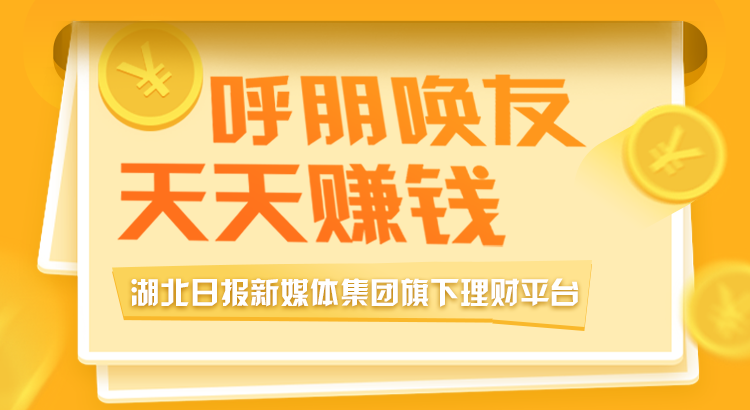
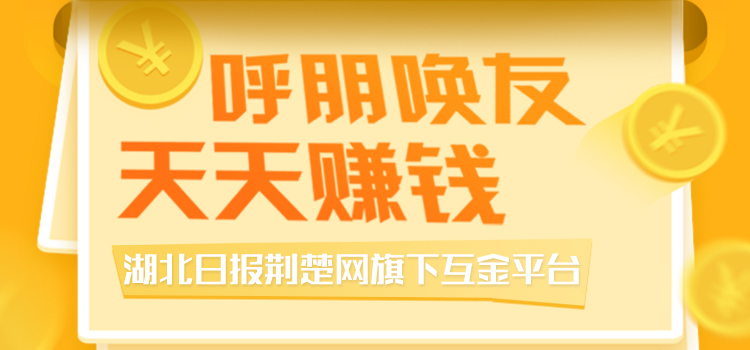
change

diff --git a/view/themes/ctcf_new/pc/views/helpcenter/about.php b/view/themes/ctcf_new/pc/views/helpcenter/about.php
@@ -17,11 +17,11 @@ $this->registerCssFile(ASSETS_BASE_URI.'ctcf/css/help/about.css?v=1.0', ['depend
                 <div class="about-content">
                     <p align="center">楚天财富（武汉）金融服务有限公司简介</p>
                     <p>
-                        楚天财富（武汉）金融服务有限公司（以下简称“楚天财富”）系湖北日报新媒体集团旗下控股公司，是湖北省首家具有国资背景的从事互联网金融综合信息服务的企业，是国内传统“纸媒”行业响应国家“十二五”规划和新时代发展战略的创新举措。作为金融信息服务平台，楚天财富在武汉的“产业与资本，金融与民生”战略规划中深耕细作，深度挖掘战略发展契合点并抓住联动机遇，一方面服务于符合国家未来发展规划的产业和企业，另一方面为出借者提供更丰富的资产配置策略与出借渠道。未来，楚天财富将由湖北武汉逐步辐射至全国，实现其作为传媒集团旗下互联网金融服务平台的多元化和规模化发展。</p>
+                        楚天财富（武汉）金融服务有限公司（以下简称“楚天财富”）系湖北日报荆楚网旗下控股公司，是湖北省首家具有国资背景的从事互联网金融综合信息服务的企业，是国内传统“纸媒”行业响应国家“十二五”规划和新时代发展战略的创新举措。作为金融信息服务平台，楚天财富在武汉的“产业与资本，金融与民生”战略规划中深耕细作，深度挖掘战略发展契合点并抓住联动机遇，一方面服务于符合国家未来发展规划的产业和企业，另一方面为出借者提供更丰富的资产配置策略与出借渠道。未来，楚天财富将由湖北武汉逐步辐射至全国，实现其作为荆楚网旗下互联网金融服务平台的多元化和规模化发展。</p>
                     <p>
-                        湖北荆楚网络科技股份有限公司（内部简称“湖北日报新媒体集团”），是全国首家挂牌新三板市场的省级全国重点新闻网站（830836），由湖北日报传媒集团（以下简称“传媒集团”）的全资子公司。传媒集团系由1949年创刊的中共湖北省委机关报——湖北日报于2007年4月组建。传媒集团在深厚的历史积淀基础之上，经过十余年开拓创新，已发展成为一家以湖北日报为核心，拥有11报12刊5网站和1家出版机构、21个全资公司的综合性传媒集团，在湖北省内拥有巨大影响力。</p>
+                        湖北荆楚网络科技股份有限公司（简称“荆楚网”），是全国首家挂牌新三板市场的省级全国重点新闻网站（830836），是湖北日报的全资子公司。荆楚网系由1949年创刊的中共湖北省委机关报——湖北日报于2007年4月组建。荆楚网在深厚的历史积淀基础之上，经过十余年开拓创新，已发展成为一家以湖北日报为核心，拥有11报12刊5网站和1家出版机构、21个全资公司的综合性传媒集团，在湖北省内拥有巨大影响力。</p>
                     <p>
-                        湖北新海天投资有限公司于 2001年6月创立，是一家以自主深度研究为基础、专业从事中国境内投资的投资管理公司。新海天投资历经十七年成长，已经成为一家以金融业务为核心的资本经营管理集团（简称“新海天资本”），主营业务债权投资、股权投资、证券投资、金融资本顾问等，聚焦资本领域，打造核心竞争力。新海天资本拥有一批专业背景深厚，从业经验丰富的经营管理人才，拥有良好的政府关系和广泛的人脉资源，专注资本领域，植根中国市场，深入精耕，致力于为中国高净值投资者、企业和国际投资机构提供专业的投资管理服务。</p>
+                        湖北新海天投资有限公司于 2001年6月创立，是一家以自主深度研究为基础、专业从事中国境内投资的投资管理公司。新海天投资历经十七年成长，已经成为一家以金融业务为核心的资本经营管理集团（简称“新海天资本”），主营业务债权投资、股权投资、证券投资、金融资本顾问等，聚焦资本领域，打造核心竞争力。新海天资本拥有一批专业背景深厚，从业经验丰富的经营管理人才，拥有良好的政府关系和广泛的人脉资源，专注资本领域，植根中国市场，深入精耕，致力于为中国高净值投资者、企业和国际投资机构提供专业的投资管理服务。
 
                     <p class="zizhi">
                         <span>——————</span>

diff --git a/view/themes/ctcf_new/pc/views/helpcenter/background.php b/view/themes/ctcf_new/pc/views/helpcenter/background.php
@@ -19,7 +19,7 @@ $this->title = "帮助中心";
                     <div class="row single">
                         <p class="single-tuchu">公司概括</p>
                         <p>
-                            楚天财富（武汉）金融服务有限公司（以下简称“楚天财富”）系湖北日报新媒体集团旗下控股公司，是湖北省首家具有国资背景的从事互联网金融综合信息服务的企业，是国内传统“纸媒”行业响应国家“十二五”规划和新时代发展战略的创新举措。作为金融信息服务平台，楚天财富在武汉的“产业与资本，金融与民生”战略规划中深耕细作，深度挖掘战略发展契合点并抓住联动机遇，一方面服务于符合国家未来发展规划的产业和企业，另一方面为出借者提供更丰富的资产配置策略与出借渠道。未来，楚天财富将由湖北武汉逐步辐射至全国，实现其作为传媒集团旗下互联网金融服务平台的多元化和规模化发展。
+                            楚天财富（武汉）金融服务有限公司（以下简称“楚天财富”）系湖北日报荆楚网旗下参股公司，是湖北省首家具有国资背景的从事互联网金融综合信息服务的企业，是国内传统“纸媒”行业响应国家“十二五”规划和新时代发展战略的创新举措。作为金融信息服务平台，楚天财富在武汉的“产业与资本，金融与民生”战略规划中深耕细作，深度挖掘战略发展契合点并抓住联动机遇，一方面服务于符合国家未来发展规划的产业和企业，另一方面为出借者提供更丰富的资产配置策略与出借渠道。未来，楚天财富将由湖北武汉逐步辐射至全国，实现其作为综合性互联网金融服务平台的多元化和规模化发展。
                         </p>
                     </div>
 <!--                    <div class="row single">-->
@@ -30,7 +30,7 @@ $this->title = "帮助中心";
                     <div class="row single">
                         <p class="single-tuchu">股东背景</p>
                         <p class="single-tuchu">湖北荆楚网络科技股份有限公司</p>
-                        <p>湖北荆楚网络科技股份有限公司（内部简称“湖北日报新媒体集团”），是全国首家挂牌新三板市场的省级全国重点新闻网站（830836），由湖北日报传媒集团（以下简称“传媒集团”）的全资子公司。传媒集团系由1949年创刊的中共湖北省委机关报——湖北日报于2007年4月组建。传媒集团在深厚的历史积淀基础之上，经过十余年开拓创新，已发展成为一家以湖北日报为核心，拥有11报12刊5网站和1家出版机构、21个全资公司的综合性传媒集团，在湖北省内拥有巨大影响力。</p>
+                        <p>湖北荆楚网络科技股份有限公司（简称“荆楚网”），是全国首家挂牌新三板市场的省级全国重点新闻网站（830836），由湖北日报传媒集团（以下简称“传媒集团”）的全资子公司。传媒集团系由1949年创刊的中共湖北省委机关报——湖北日报于2007年4月组建。传媒集团在深厚的历史积淀基础之上，经过十余年开拓创新，已发展成为一家以湖北日报为核心，拥有11报12刊5网站和1家出版机构、21个全资公司的综合性传媒集团，在湖北省内拥有巨大影响力。</p>
                         <p class="single-tuchu">湖北新海天投资有限公司</p>
                         <p>湖北新海天投资有限公司于 2001年6月创立，是一家以自主深度研究为基础、专业从事中国境内投资的投资管理公司。新海天投资历经十七年成长，已经成为一家以金融业务为核心的资本经营管理集团（简称“新海天资本”），主营业务债权投资、股权投资、证券投资、金融资本顾问等，聚焦资本领域，打造核心竞争力。新海天资本拥有一批专业背景深厚，从业经验丰富的经营管理人才，拥有良好的政府关系和广泛的人脉资源，专注资本领域，植根中国市场，深入精耕，致力于为中国高净值投资者、企业和国际投资机构提供专业的投资管理服务。</p>
 

diff --git a/view/themes/ctcf_new/m/views/site/help_company.php b/view/themes/ctcf_new/m/views/site/help_company.php
@@ -11,12 +11,12 @@ $this->title="帮助中心";
     <div class="kong-width">
         <div class="row single">
             <p class="single-tuchu">公司概括</p>
-            <p>楚天财富（武汉）金融服务有限公司（以下简称“楚天财富”）系湖北日报新媒体集团旗下控股公司，是湖北省首家具有国资背景的从事互联网金融综合信息服务的企业，是国内传统“纸媒”行业响应国家“十二五”规划和新时代发展战略的创新举措。作为金融信息服务平台，楚天财富在武汉的“产业与资本，金融与民生”战略规划中深耕细作，深度挖掘战略发展契合点并抓住联动机遇，一方面服务于符合国家未来发展规划的产业和企业，另一方面为出借者提供更丰富的资产配置策略与出借渠道。未来，楚天财富将由湖北武汉逐步辐射至全国，实现其作为传媒集团旗下互联网金融服务平台的多元化和规模化发展。</p>
+            <p>楚天财富（武汉）金融服务有限公司（以下简称“楚天财富”）系湖北日报荆楚网旗下控股公司，是湖北省首家具有国资背景的从事互联网金融综合信息服务的企业，是国内传统“纸媒”行业响应国家“十二五”规划和新时代发展战略的创新举措。作为金融信息服务平台，楚天财富在武汉的“产业与资本，金融与民生”战略规划中深耕细作，深度挖掘战略发展契合点并抓住联动机遇，一方面服务于符合国家未来发展规划的产业和企业，另一方面为出借者提供更丰富的资产配置策略与出借渠道。未来，楚天财富将由湖北武汉逐步辐射至全国，实现其作为荆楚网旗下互联网金融服务平台的多元化和规模化发展。</p>
         </div>
         <div class="row single">
             <p class="single-tuchu">股东背景</p>
             <p class="single-tuchu">湖北荆楚网络科技股份有限公司</p>
-            <p>湖北荆楚网络科技股份有限公司（内部简称“湖北日报新媒体集团”），是全国首家挂牌新三板市场的省级全国重点新闻网站（830836），由湖北日报传媒集团（以下简称“传媒集团”）的全资子公司。传媒集团系由1949年创刊的中共湖北省委机关报——湖北日报于2007年4月组建。传媒集团在深厚的历史积淀基础之上，经过十余年开拓创新，已发展成为一家以湖北日报为核心，拥有11报12刊5网站和1家出版机构、21个全资公司的综合性传媒集团，在湖北省内拥有巨大影响力。</p>
+            <p>湖北荆楚网络科技股份有限公司（简称“荆楚网”），是全国首家挂牌新三板市场的省级全国重点新闻网站（830836），是湖北日报的全资子公司。荆楚网系由1949年创刊的中共湖北省委机关报——湖北日报于2007年4月组建。荆楚网在深厚的历史积淀基础之上，经过十余年开拓创新，已发展成为一家以湖北日报为核心，拥有11报12刊5网站和1家出版机构、21个全资公司的综合性传媒集团，在湖北省内拥有巨大影响力。</p>
         </div>
         <div class="row single">
             <p class="single-tuchu">湖北新海天投资有限公司</p>

diff --git a/view/themes/ctcf_new/pc/views/safeguard.php b/view/themes/ctcf_new/pc/views/safeguard.php
@@ -33,7 +33,7 @@ $this->extraKeywords = '平台安全';
                         <p class="p-padding-lf">楚天财富严守平台规范。用户出借的每一笔资金都经过第三方支付平台联动优势，一一匹配真实债权，对应每个资产项目；联动优势提供的专业综合支付系统与资金结算服务，实现交易资金与平台自有资金的隔离管理，有效防范平台自建资金池以及随意挪用资金的风险。</p>
                         <p class="p-padding-lf" style="margin-top: 1em;"><span style="font-weight: bold;">联动优势</span>：联动优势科技有限公司由中国移动、中国银联于2003年8月联合发起成立。是中国互联网金融协会理事单位、中国支付清算协会常务理事单位；联动优势已获得中国人民银行《支付业务许可证》（全国范围的互联网支付、移动电话支付、银行卡收单），中国证监会基金销售支付结算业务资格，以及国家外汇管理局北京外汇管理部跨境外汇支付试点和中国人民银行跨境人民币支付试点资质。</p>
                         <h4>（4）股东背景强势</h4>
-                        <p class="p-padding-lf">楚天财富（武汉）金融服务有限公司（简称楚天财富）隶属湖北日报新传媒集团，其强大的媒体公信力、专业的金融机构背景，助力楚天财富全力发展互联网金融业务，给予楚天财富更长足的发展动力。</p>
+                        <p class="p-padding-lf">楚天财富（武汉）金融服务有限公司（简称楚天财富）系湖北日报荆楚网旗下子公司，其强大的媒体公信力、专业的金融机构背景，助力楚天财富全力发展互联网金融业务，给予楚天财富更长足的发展动力。</p>
                     </div>
 
                     <div class="safetxt-icon hide">

diff --git a/view/themes/ctcf_new/m/views/site/company_desc.php b/view/themes/ctcf_new/m/views/site/company_desc.php
@@ -111,7 +111,7 @@ $this->title = '关于我们';
         <div class="page page-loading" data-lock-next="true" data-lock-prev="true">
                 <div class="top-empt-loading"></div>
                 <div class="page-loading-title1"></div>
-                <div class="page-loading-wendu">系湖北日报新媒体集团旗下公司</div>
+                <div class="page-loading-wendu">系湖北日报荆楚网旗下公司</div>
                 <div class="page-loading-jindubg">
                         <div class="page-redloading-wrap">
                                 <div class="page-redloading"></div>
@@ -127,7 +127,7 @@ $this->title = '关于我们';
                                     <img class="star-dot" src="<?= FE_BASE_URI ?>wap/campaigns/h5-161114/img/star-2.png">
                                 </div>
                                 <div class="title page1-title"><img src="<?= ASSETS_BASE_URI ?>ctcf/images/h5-180211/first-title.png" alt=""></div>
-                                <p class="title-h2"><span >系湖北日报新媒体集团旗下公司</span></p>
+                                <p class="title-h2"><span >系湖北日报荆楚网旗下公司</span></p>
                                 <div class="hexagon">
                                         <img src="<?= ASSETS_BASE_URI ?>ctcf/images/h5-180211/six-fg-new.png" alt="六边形">
                                         <span class="hexagon-txt" style="top: -23px;left: 26.6%;width: 51%;">平台以专业的风控能力、高效的技术保障为用户提供便捷的互联网金融综合信息服务。</span>

diff --git a/view/themes/ctcf_new/pc/views/helpcenter/advantage.php b/view/themes/ctcf_new/pc/views/helpcenter/advantage.php
@@ -20,7 +20,7 @@ $this->registerCssFile(ASSETS_BASE_URI.'css/help/advantage.css', ['depends' => '
                     <div class="section">
                         <div class="number">1</div>
                         <span>国资</span><span>背景</span>
-                        <p>隶属湖北日报新媒体集团旗下出借平台。</p>
+                        <p>隶属湖北日报荆楚网旗下互金平台。</p>
                     </div>
 
                     <div class="section">
@@ -32,7 +32,7 @@ $this->registerCssFile(ASSETS_BASE_URI.'css/help/advantage.css', ['depends' => '
                     <div class="section">
                         <div class="number">3</div>
                         <span>稳健</span><span>合规</span>
-                        <p>资金全程托管，与平台隔离不被挪用；</p>
+                        <p>资金全程分离，与平台隔离不被挪用；</p>
                         <p>绑定本人银行卡，提现只进本人账户很安全；</p>
                         <p>层层风控，专业稳健，合法合规。</p>
                     </div>

diff --git a/view/themes/ctcf_new/m/views/luodiye/luodiye.php b/view/themes/ctcf_new/m/views/luodiye/luodiye.php
@@ -86,7 +86,7 @@ $this->registerJsFile(FE_BASE_URI.'wap/luodiye/js/luodiye.js?v=20180118', ['depe
 
             <div class="row description-box">
                 <p class="description-header"><span>什么是楚天财富？</span></p>
-                <p class="description-content">楚天财富（武汉）金融服务有限公司简称“楚天财富”，隶属湖北日报新媒体集团下平台，是湖北省首家具有国资背景的从事互联网金融综合信息服务的企业，是国内传统“纸媒”行业响应国家“十二五”规划和新时代发展战略的创新举措。</p>
+                <p class="description-content">楚天财富（武汉）金融服务有限公司简称“楚天财富”，隶属湖北日报荆楚网下平台，是湖北省首家具有国资背景的从事互联网金融综合信息服务的企业，是国内传统“纸媒”行业响应国家“十二五”规划和新时代发展战略的创新举措。</p>
             </div>
 <!--            <div class="row production-box">-->
 <!--                <p class="production-header">精品理财</p>-->

diff --git a/view/themes/ctcf_new/pc/views/helpcenter/product.php b/view/themes/ctcf_new/pc/views/helpcenter/product.php
@@ -26,7 +26,7 @@ $this->title = "帮助中心";
                         <p>1、期限灵活：长中短期项目丰富，适合不同客户需求；</p>
                         <p>2、风险可控：借款项目为专业商业保理公司推荐的优质客户，保理公司全流程全环节监控借款企业资金用途，把握借款企业回款资金的安全性；</p>
                         <p>3、信息安全：专业第三方资金托管平台对资金全程监控保护，平台自身资深技术团队保证用户个人信息安全；</p>
-                        <p>4、背景强劲：省委机关报业集团旗下子公司，全国首家挂牌新三板省级重点新闻网站媒体支持，信誉保证。</p>
+                        <p>4、背景强劲：全国首家挂牌新三板省级重点新闻网站旗下子公司，信誉保证。</p>
                     </div>
                     <div class="row single">
                         <h1>收益计算：</h1>

diff --git a/view/themes/ctcf_new/m/views/luodiye/invite.php b/view/themes/ctcf_new/m/views/luodiye/invite.php
@@ -65,7 +65,7 @@ if ($isLuodiye) {
 </div>
 <div class="row description-box">
     <p class="description-header"><span>什么是楚天财富？</span></p>
-    <p class="description-content">楚天财富（武汉）金融服务有限公司简称“楚天财富”，隶属湖北日报新媒体集团下平台，是湖北省首家具有国资背景的从事互联网金融综合信息服务的企业，是国内传统“纸媒”行业响应国家“十二五”规划和新时代发展战略的创新举措。</p>
+    <p class="description-content">楚天财富（武汉）金融服务有限公司简称“楚天财富”，隶属湖北日报荆楚网下平台，是湖北省首家具有国资背景的从事互联网金融综合信息服务的企业，是国内传统“纸媒”行业响应国家“十二五”规划和新时代发展战略的创新举措。</p>
 </div>
 <!--<div class="row production-box">-->
 <!--    <p class="production-header">精品理财</p>-->

diff --git a/view/themes/ctcf_new/m/views/site/help_product.php b/view/themes/ctcf_new/m/views/site/help_product.php
@@ -21,7 +21,7 @@ $this->title="帮助中心";
             <p>1、期限灵活：长中短期项目丰富，适合不同客户需求；
             <p>2、风险可控：借款项目为专业商业保理公司推荐的优质客户，保理公司全流程全环节监控借款企业资金用途，把握借款企业回款资金的安全性；
             <p>3、信息安全：专业第三方资金托管平台对资金全程监控保护，平台自身资深技术团队保证用户个人信息安全；
-            <p>4、背景强劲：省委机关报业集团旗下子公司，全国首家挂牌新三板省级重点新闻网站媒体支持，信誉保证。
+            <p>4、背景强劲：全国首家挂牌新三板省级重点新闻网站旗下子公司，信誉保证。
         </div>
         <div class="row single">
             <h1>收益计算：</h1>

diff --git a/backend/modules/user/controllers/RechargerecordController.php b/backend/modules/user/controllers/RechargerecordController.php
@@ -147,7 +147,7 @@ class RechargerecordController extends BaseController
                     //0初始,2成功,3失败,4不明,5交易关闭
                     $return_message = [0 => '初始', 2 => '成功', 3 => '失败', 4 => '不明', 5 => '交易关闭'];
                     if ($tran_state >= 0 && key_exists($tran_state, $return_message)) {
-                        return ['code' => true, 'message' => $return_message[$tran_state]];
+                        return ['code' => true, 'message' => $return_message[$tran_state].",联动订单号:".$res->get('order_id')];
                     }
                     return ['code' => false, 'message' => '返回信息不明确'];
                 }
